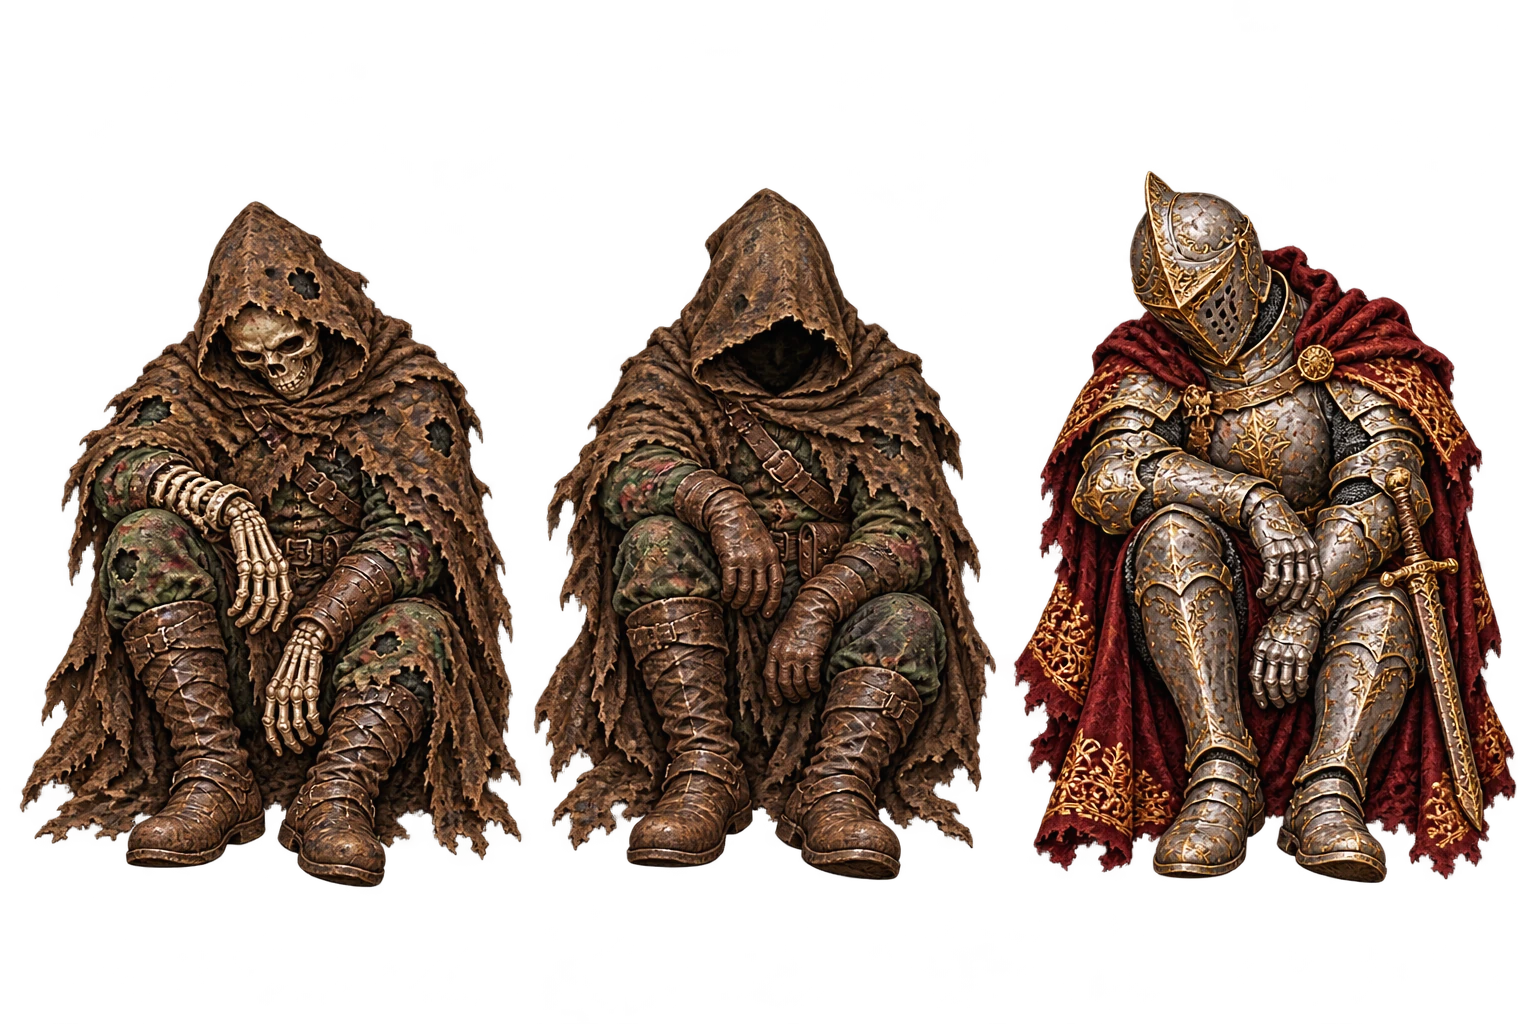
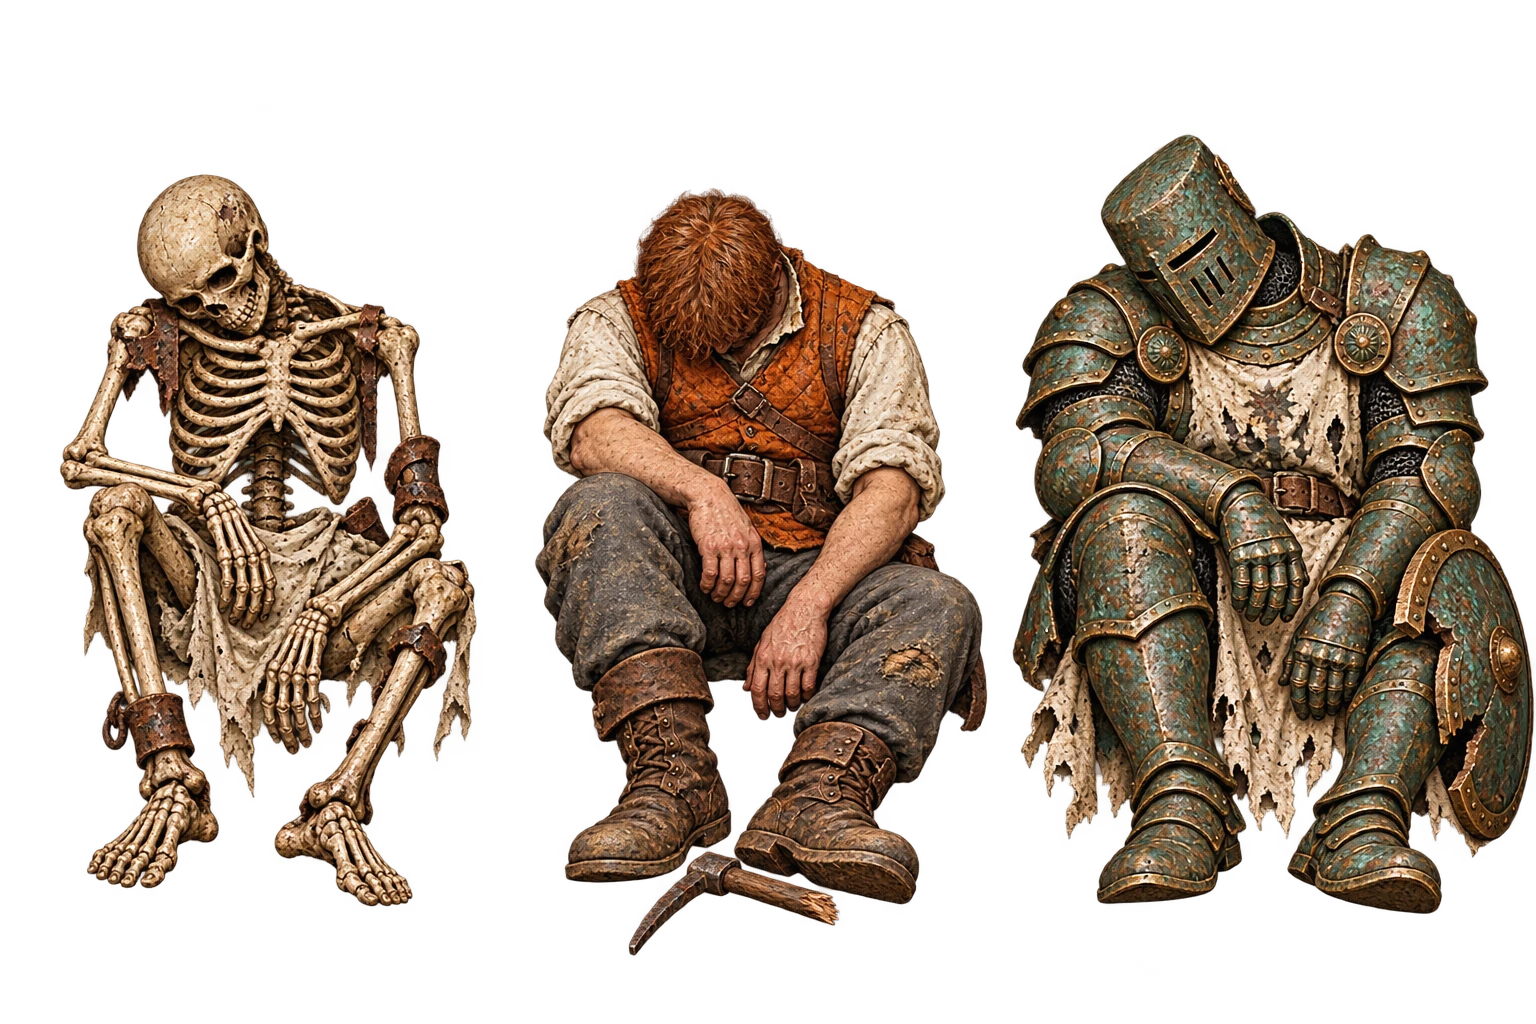
死体3種をプレイヤーと異なる装いへ変更

diff --git a/src/cryptactors.js b/src/cryptactors.js
@@ -21,8 +21,8 @@ export function prewarmCryptActors() { for (const key of Object.keys(assets)) sh
 export const CRYPT_PROP_FRAMES = {
   chest: ["a", 24, 116, 487, 360], chestOpen: ["a", 538, 36, 462, 450],
   stairs: ["a", 1028, 60, 501, 450], fountain: ["a", 37, 529, 452, 473],
-  corpse: ["seated", 8, 184, 522, 716],
-  corpseWarm: ["seated", 530, 176, 478, 720], corpseGreat: ["seated", 1008, 160, 520, 736],
+  corpse: ["seated", 48, 166, 438, 750],
+  corpseWarm: ["seated", 526, 183, 467, 780], corpseGreat: ["seated", 1003, 126, 532, 798],
   fountainEmpty: ["c", 119, 499, 502, 503], portal: ["a", 1037, 548, 486, 439],
   trap: ["b", 70, 149, 399, 275], event: ["b", 619, 17, 302, 480],
   bossDoor: ["b", 75, 509, 370, 478], wisp: ["b", 600, 524, 340, 483],

diff --git a/CLAUDE.md b/CLAUDE.md
@@ -251,7 +251,7 @@ Six elements + `none`, defined in `schema.js`. Advantage cycle is **火→風→
 技の種別札 (`itemview.js` の `spellTagKinds`) は、`pierce > 0` の物理技を「物貫」、魔法技を「魔貫」と表記する。通常の技は「物」「魔」。現行の技データの `pierce` は物理技のみで、魔法貫通の技は未定義。
 無限迷宮の回収人は、購入・売却画面の所持金の下に「隊の持ち物 n/50」を表示する。共通の袋 (`G.inventory`) を数え、装備中の品は含めず、売買の直後に更新する。心得 `t_inf4`。
 装備更新の知らせ: 戦果の取得品・入手トースト・祝祭カードには、装備で評価点が上がる人業の小さな肖像と▲を表示する。街・隊・探索の人業アイコン右下には、所持品から今より強い装備へ替えられる間、小さな赤丸を表示する（既読では消さず、未鑑定・Lv不足・ロックなどで付け替えられない品と仲間が装備中の品は対象外）。心得 `t_gear_upgrade`。
-「忘れられた地下墓地」(`w01`、B1F〜B5F) の床・墓石・壁は `src/cryptpaint.js` の描き下ろし素材 (`art/dungeon/crypt-materials.webp`・`crypt-floor.webp`) を使う。墓石3種・壁材と継ぎ目のない一枚の床原画を論理寸法の3倍で保持し、光・影・めくりを重ねる。素材到着時は描画キャッシュを切り替え、未読込・失敗時は従来の手続き描画へ戻る。壁は明るい青灰色の上面・暗い側面・落ち影で暖色の床と分ける。探索者の身長と遺体の全長は同じマス高さの基準で描く。未回収の魂火は元の大きさで描き、横揺れ・上下動・傾き・伸縮を重ねる（動きを減らす設定では静止）。人物4方向と宝箱・階段など19種の小物は `src/cryptactors.js` と `crypt-props-a.webp`・`crypt-props-b.webp`・`crypt-props-c.webp`・`crypt-props-d.webp`・`crypt-walker.webp` を使う。外套7色・縁取り4色をキャッシュ上で着色し、角灯の光と透過を保つ。各画像は独立して読み込み、未読込・失敗時は旧スプライトを使う。死体は風化・あたたかい・偉大の3種を別の原画で描き（あたたかい死体はフードで顔を隠して崩れ落ちた姿）、回収済みでも種類を保持する。飲み終えた泉は空の鉢として残す。死体・泉の状態表示と魂火の揺れは全迷宮に適用する。魂火と光源は遺体の中央へ合わせ、駒と同居して遺体が右へ寄る時も追従する。作成済み19種の小物は `cryptPropSprite` と既存のスプライト差し替え口によりポップアップ・通知・行動ボタンにも同じ絵を使う（装備の差し替えも維持）。魂の残火・金貨・汎用の危険印・守衛・入口の旗も原画化し、残火と金貨の小さな通貨表示は同じ原画から作る96px以内のWebPを使う。人物・宝箱・階段・魂火などの共通素材と汎用アイコンは、無限迷宮を含む全迷宮で共用する。素材の先読みも全迷宮で行う。床・壁の適用範囲は次段を参照。土地固有の仕掛けと魔物の絵は従来どおり。遺体3種は `crypt-corpses-seated.webp` の膝を曲げた座り姿を使い、探索者と同じ頭身を保つ。描画幅はマス幅の76%（駒と同居時50%）までに収め、縦長のマスでも左右の壁を越えない。氷結回廊と腐れ水の岸（`w22`〜`w26`、全55階）にも迷宮別の床・蓋・壁の原画を適用する。氷棚のひび、氷柱の奥の影、極光の色、大回廊の彫刻、岸の泥と根を描き分け、危険な床の染みは既存の描画を重ねる。原画は `docs/art/dungeons/`、制作記録は `w22-w26.md`、確認は `tools/crypt/verify-w22-w26.cjs`、心得は `t_frozen_stonework`。人物・小物の原画と比較は `docs/art/crypt/actors/`、確認は `tools/crypt/verify-actors.cjs`、心得は `t_crypt_objects`。原画・実画面の比較は `docs/art/crypt/`、確認は `tools/crypt/verify.cjs`、酒場の心得 `t_crypt_stonework`。
+「忘れられた地下墓地」(`w01`、B1F〜B5F) の床・墓石・壁は `src/cryptpaint.js` の描き下ろし素材 (`art/dungeon/crypt-materials.webp`・`crypt-floor.webp`) を使う。墓石3種・壁材と継ぎ目のない一枚の床原画を論理寸法の3倍で保持し、光・影・めくりを重ねる。素材到着時は描画キャッシュを切り替え、未読込・失敗時は従来の手続き描画へ戻る。壁は明るい青灰色の上面・暗い側面・落ち影で暖色の床と分ける。探索者の身長と遺体の全長は同じマス高さの基準で描く。未回収の魂火は元の大きさで描き、横揺れ・上下動・傾き・伸縮を重ねる（動きを減らす設定では静止）。人物4方向と宝箱・階段など19種の小物は `src/cryptactors.js` と `crypt-props-a.webp`・`crypt-props-b.webp`・`crypt-props-c.webp`・`crypt-props-d.webp`・`crypt-walker.webp` を使う。外套7色・縁取り4色をキャッシュ上で着色し、角灯の光と透過を保つ。各画像は独立して読み込み、未読込・失敗時は旧スプライトを使う。死体は風化・あたたかい・偉大の3種を別の原画で描き（全種フード・外套なし。あたたかい死体は橙色の作業着、偉大なる死体は青緑の重装鎧、風化した死体は露出した骨）、回収済みでも種類を保持する。飲み終えた泉は空の鉢として残す。死体・泉の状態表示と魂火の揺れは全迷宮に適用する。魂火と光源は遺体の中央へ合わせ、駒と同居して遺体が右へ寄る時も追従する。作成済み19種の小物は `cryptPropSprite` と既存のスプライト差し替え口によりポップアップ・通知・行動ボタンにも同じ絵を使う（装備の差し替えも維持）。魂の残火・金貨・汎用の危険印・守衛・入口の旗も原画化し、残火と金貨の小さな通貨表示は同じ原画から作る96px以内のWebPを使う。人物・宝箱・階段・魂火などの共通素材と汎用アイコンは、無限迷宮を含む全迷宮で共用する。素材の先読みも全迷宮で行う。床・壁の適用範囲は次段を参照。土地固有の仕掛けと魔物の絵は従来どおり。遺体3種は `crypt-corpses-seated.webp` の膝を曲げた座り姿を使い、探索者と同じ頭身を保つ。描画幅はマス幅の76%（駒と同居時50%）までに収め、縦長のマスでも左右の壁を越えない。氷結回廊と腐れ水の岸（`w22`〜`w26`、全55階）にも迷宮別の床・蓋・壁の原画を適用する。氷棚のひび、氷柱の奥の影、極光の色、大回廊の彫刻、岸の泥と根を描き分け、危険な床の染みは既存の描画を重ねる。原画は `docs/art/dungeons/`、制作記録は `w22-w26.md`、確認は `tools/crypt/verify-w22-w26.cjs`、心得は `t_frozen_stonework`。人物・小物の原画と比較は `docs/art/crypt/actors/`、確認は `tools/crypt/verify-actors.cjs`、心得は `t_crypt_objects`。原画・実画面の比較は `docs/art/crypt/`、確認は `tools/crypt/verify.cjs`、酒場の心得 `t_crypt_stonework`。
 回廊〜外郭（`w02`〜`w06`）も `cryptpaint.js` の迷宮別素材（`art/dungeon/w0N-materials.webp`・`w0N-floor.webp`）を遅延取得し、床・蓋・壁を3倍解像度で描く。迷宮IDごとに読込状態を分け、二枚が揃うまで従来描画を維持する。汚水・坑内ガス・鉄菱は `crypt.js` の `paintFloorHazards` で新しい床に重ねる。原画・比較は `docs/art/dungeons/`、確認は `tools/crypt/verify-dungeons.cjs`。心得 `t_crypt_stonework` を更新。 地下牢〜霧森（`w07`〜`w11`、全55階）にも専用の床・蓋・壁原画を適用。縦穴と霧森の壁は根・苔の原画を切石の目地なしで描く。原画ごとに蓋の下端位置を保持して床の混入を防ぐ。比較は `docs/art/dungeons/review-w07-w11/`、確認は `node tools/crypt/verify-dungeons.cjs w07-w11`、心得は `t_fort_roots_surfaces`。
 大神殿〜大釜（`w17`〜`w21`、全60階）にも専用の床・蓋・壁材を適用する。神殿の大理石、地割れの玄武岩、祭場の灰、釜場の青銅、大釜の黒鉄を描き分け、危険な床は既存の染みを重ねる。原画と比較は `docs/art/dungeons/w17-w21.md`、検査は `DUNGEON_REVIEW_GROUP=w17-w21 node tools/crypt/verify-dungeons.cjs`。心得 `t_crypt_stonework` を更新。
 雷廊〜観客席（`w32`〜`w36`）も同じ仕組みで専用の床・蓋3種・壁材を描く。帯電床・腐ったわら・灰の吹きだまりは既存の仕掛けを重ねる。原画は同じフォルダ、比較は `docs/art/dungeons/review-w32-w36/`、確認は `tools/crypt/verify-w32-w36.cjs`。心得 `t_storm_stonework`・`t_arena_stonework`。

diff --git a/docs/art/crypt/actors/README.md b/docs/art/crypt/actors/README.md
@@ -90,3 +90,16 @@ CRYPT_REVIEW_OUT=/tmp/crypt-actors-review node tools/crypt/verify-actors.cjs
 横幅をマスの高さから決める処理をやめ、マス幅の76%（探索者と同居する時は50%）を上限にする。縦横比を変形せず、左右の壁に余白を残す。魂火・回収状態・選択画面の3種の区別は維持する。表示のみの修正のため、酒場の心得の変更はない。
 
 確認: [壁際の盤面](seated-review/board.png) · [選択画面一覧](seated-review/popup-gallery.png) · [検査結果](seated-review/checks.json)。幅320/390/600/1280px、拡大/全体、探索者との同居で、遺体3種の実描画矩形がマス内に収まることを検査した。再確認は `CRYPT_STATES_OUT=docs/art/crypt/actors/seated-review node tools/crypt/verify-states.cjs`。
+
+
+## プレイヤーと異なる死体の装い
+
+座り姿と壁際の配置を保ち、死体3種からフード・外套・角灯をなくした。
+
+- あたたかい死体: 短い髪、橙色の作業着、白い袖、折れたつるはし。顔はうつむいて隠れる。
+- 偉大なる死体: 閉じた筒形の兜、青緑の重装鎧、壊れた丸盾。
+- 風化した死体: 露出した頭蓋骨・肋骨・手足と、薄い布の残り。
+
+原画は `corpses-seated-master.png`、出荷物は `crypt-corpses-seated.webp`。変更前は `fixes/corpses-seated-before-distinct-design.png` に保持。切り出し枠を新しい輪郭に合わせ、盤面とポップアップへ共通で反映する。
+確認: [盤面](distinct-review/board.png) · [選択画面一覧](distinct-review/popup-gallery.png) · [検査結果](distinct-review/checks.json)。
+再確認: `CRYPT_STATES_OUT=docs/art/crypt/actors/distinct-review node tools/crypt/verify-states.cjs`。
